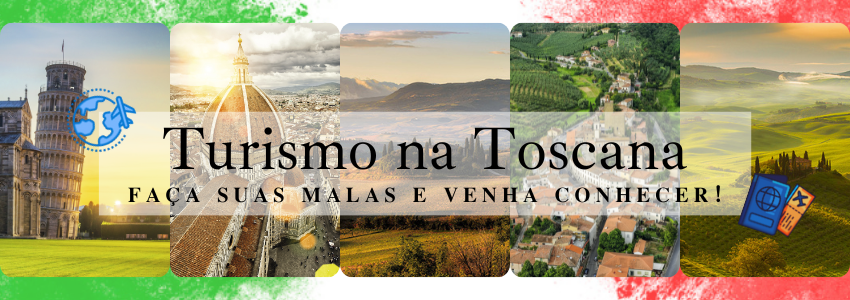
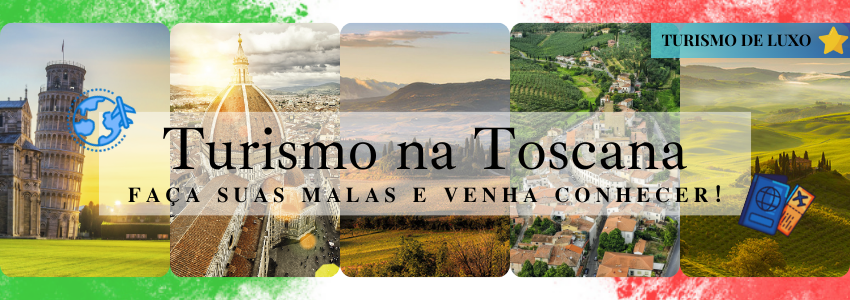
novas paginas adicionadas

Changed region(s): [[0.7647, 0.06, 1.0, 0.21]]

diff --git a/algarve.html b/algarve.html
@@ -17,7 +17,7 @@
 
     <link rel="shortcut icon" href="image/favicon-32x32.png" type="image/x-icon">
 
-    <title>Espanha</title>
+    <title>Algarve</title>
 
 </head>
 
@@ -77,40 +77,56 @@
     </div>
     <main class="container-fluid rounded-3 pt-1" style="background-color:#ffffff62;">
         <div class="container-fluid text-center py-2">
-            <div class="row align-items-middle py-3  rounded-3 border border-danger">
-                <div class="col-12 col-lg-4 pe-4">
-                    <div class="container-fluid pt-1 text-center">
-                        <div class="container">
-                            <img class="pb-2 img-fluid rounded-1" src="image/espanha-pqn.png" alt="bandeira da italia">
+            <div class="row  py-2  rounded-3 border border-warning-subtle">
+                <div class="row ">
+                    <div class="col-md-6 col-12">
+                        <div class="container-fluid pt-4">
+                            <h3 class="t1 border-bottom">Turismo no Algarve</h3>
+                            <p class="p1 ps py-1 ps-3">
+                                Somos uma empresa de concierge de luxo, que proporciona férias de luxo sob medida e
+                                sensações únicas na região do Algarve, sul de Portugal.
+                                Sendo o serviço de concierge VIP líder no Algarve, temos orgulho em trabalhar com
+                                algumas das villas de luxo mais exclusivas e os melhores iates disponíveis para aluguer
+                                na região.<br>
+                            </p>
+                            <ul class="list-unstyled ps ps-3">
+                                <li class="pb-1">Visite a maravilhosa costa e as famosas grutas num iate de luxo ou
+                                    descubra os canais
+                                    únicos do Parque Natural da Ria Formosa e as suas ilhas;</li>
+                                <li class="pb-1">Experimente os melhores restaurantes que o Algarve tem para oferecer;
+                                </li>
+                                <li class="pb-1">Deite-se e relaxe numa ilha deserta ou faça passeios exclusivos pelas
+                                    vinhas;</li>
+                                <li class="pb-1">Por que não contratar um DJ internacional para a sua festa privada?
+                                </li>
+                                <li class="pb-1">Você vai dar um jantar especial? Vou te dar um Chef com estrela
+                                    Michelin.</li>
+                            </ul>
                         </div>
-                        <h3 class="t1 border-bottom">Cidadania espanhola, tenho direito?</h3>
-                        <p class="p1">Prestamos consultoria para cidadania espanhola em 2 vias:
-                            por descendência (de pais ou de avós), ou casamento.</p>
                     </div>
-                </div>
-                <div class="col-12 col-lg-8">
-                    <div class="container  rounded-3 shadow-sm border border-warning-subtle "
-                        style="background-color:#f8eecfc2;">
-                        <div class="row py-2 m-2 align-item-middle">
-                            <div class="col-12 col-md-6">
-                                <div class="container  " style="width: 18rem;">
-                                    <div class="card-body">
-                                        <img src="image/family.png" alt="foto mãe com bebe">
-                                        <h4 class="pt-4 border-bottom "">Cidadania espanhola por descendência:</h4>
-                                        <p class=" p">Pode ser para filho de espanhóis, netos e bisnetos.
 
-                                            </p>
-                                    </div>
+                    <div class="col-md-6 col-12 pt-3">
+
+                        <div class="ratio ratio-16x9 mb-2 col-12">
+                            <iframe width="560" height="315"
+                                src="https://www.youtube.com/embed/llrVEHji0N4?si=XaHU7C_k33N7dRTn"
+                                title="YouTube video player" frameborder="0"
+                                allow="accelerometer; autoplay; clipboard-write; encrypted-media; gyroscope; picture-in-picture; web-share"
+                                allowfullscreen></iframe>
+
+                        </div>
+                        <div id="bg-card" class="card rounded-3 g-0 col-12">
+                            <div class="row text-center">
+                                <div class="col-md-6 ">
+                                    <img src="image/portugal-flags.jpg" class="img-fluid pt-3"
+                                        alt="turismo em portugal algarve card ilustrativo">
                                 </div>
-                            </div>
-                            <div class="col-12 col-md-6 ">
-                                <div class="container" style="width: 18rem;">
+                                <div class="col-md-6">
                                     <div class="card-body">
-                                        <img src="image/marriage.png" alt="Casal em matrimônio">
-                                        <h4 class="pt-4 border-bottom">Cidadania espanhola por matrimônio:</h4>
-                                        <p class="p">Casando com um cidadão espanhol você também possuirá direito a
-                                            tornar-se um cidadão espanhol.
-
+                                        <h5 class="card-title">Veja nossas Opções!</h5>
+                                        <p class="card-text">Entre em contato pelo whatsapp e faça sua reserva!</p>
+                                        <p class="card-text">
+                                            <a class="btn btn-success" href="">whatsapp</a>
                                         </p>
                                     </div>
                                 </div>
@@ -119,50 +135,22 @@
                     </div>
                 </div>
             </div>
-            <div class="container-fluid mt-2">
-                <div class="row">
-                    <div class="col-4 rounded-1 mx-auto d-block"><img src="image/barcelona-spain.jpg" class="img-fluid"
-                            alt=""></div>
-                    <div class="col-4 rounded-1 mx-auto d-block"><img
-                            src="image/alicante-com-iates-ancorados-do-castelo-espanha.jpg" class="img-fluid" alt="">
-                    </div>
-                    <div class="col-4 rounded-1 mx-auto d-block"><img src="image/catedral-de-madrid-spain.jpg"
-                            class="img-fluid" alt=""></div>
-                </div>
 
-            </div>
-            <div class="row mt-3 rounded-3 border border-danger align-middle">
-                <div class="col-12">
-                    <h1 class="display-5 bg-light.bg-gradient my-2 pb-2 border-bottom ">Como requerer minha cidadania?
-                    </h1>
-                </div>
-                <div class="col-lg-2 col-md-1"></div>
-                <div class="col-md-10 col-lg-8 col-12 ">
-                    <div class="card my-1 border border-warning-subtle">
-                        <div class="row">
-                            <div class="col-lg-6 col-12 rounded-1">
-                                <img src="image/visa-espanha.jpg " class="img-fluid p-2 rounded-4"
-                                    alt="foto de aplicação para passaporte da espanha">
-                            </div>
-                            <div class="col-lg-6 col-12">
-                                <div class="card-body ">
-                                    <h4 class="card-title pb-3 border-bottom"> Cidadania espanhola por
-                                        descendência (LMD):</h4>
-                                    <p class="card-text">A cidadania espanhola por descendência poderá ser
-                                        solicitada de um ou de ambos os pais, ou de algum dos avós ou
-                                        bisavós. O processo é realizado pelo consulado e dura em média de 1
-                                        a 8 meses dependendo do consulado de sua jurisdição.</p>
-                                </div>
-                            </div>
-                        </div>
-                    </div>
-                </div>
-            </div>
         </div>
-        <div class="container-fluid  mt-3 ">
+        <div class="container mt-2">
+            <div class="row px-0 py-1 mx-0 my-1">
+                <div class="col-4 rounded-1"><img src="image/toscana04.png" class="img-fluid" alt=""></div>
+                <div class="col-4 rounded-1"><img src="image/toscana02.jpeg" class="img-fluid" alt=""></div>
+                <div class="col-4 rounded-1"><img src="image/toscana01.jpeg" class="img-fluid" alt=""></div>
+            </div>
+
+        </div>
+
+
+        <div class="container-fluid  mt-1 ">
             <div class="row d-flex justify-content-center">
-                <div class="col-3"></div>
-                <div class="col-sm-6 col-12 rounded-3">
+                <div class="col-md-3"></div>
+                <div class="col-lg-4 col md-12 rounded-3">
                     <div class="card mb-3 bg-body-tertiary" style="max-width: 600px;">
                         <div class="row g-0">
                             <div class="col-6 ">
@@ -180,14 +168,13 @@
                         </div>
                     </div>
                 </div>
-                <div class="col-3">
+                <div class="col-md-3">
 
                 </div>
             </div>
         </div>
-
+        </div>
     </main>
-
 
 
 

diff --git a/index.html b/index.html
@@ -38,6 +38,10 @@
                             <li class="nav-item ">
                                 <a class="am" class="nav-link active " aria-current="page" href="index.html">Home</a>
                             </li>
+                            <li class="nav-item ">
+                                <a class="am" class="nav-link active " aria-current="page"
+                                    href="sevicos.html">Serviços</a>
+                            </li>
                             <li class="nav-item dropdown">
                                 <a class="nav-link dropdown-toggle am" href="#" role="button" data-bs-toggle="dropdown"
                                     aria-expanded="false">
@@ -50,10 +54,13 @@
                                 </ul>
                             </li>
                             <li class="nav-item ">
-                                <a class="am" class="nav-link " href="contato.html">Contato</a>
+                                <a class="am" class="nav-link " href="toscana.html">Toscana</a>
                             </li>
                             <li class="nav-item ">
-                                <a class="am" class="nav-link " href="toscana.html">Toscana</a>
+                                <a class="am" class="nav-link " href="toscana.html">Algarve</a>
+                            </li>
+                            <li class="nav-item ">
+                                <a class="am" class="nav-link " href="contato.html">Contato</a>
                             </li>
                         </ul>
                     </div>
@@ -107,12 +114,21 @@
             </div>
         </div>
         <div class="container-fluid" style="background-color: #ffffff91;">
-            <div class="row text-center">
-                <div class=" col-8 offset-2 ">
+            <div class="row text-center g-0">
+                <div class="col-1"></div>
+                <div class=" col-5">
                     <div class="Shrink">
-                        <div class="col-12 ">
+                        <div class="col-12">
                             <a href="toscana.html"><img class="img-fluid rounded-3" src="image/turismo-toscana.png"
                                     alt="modelo turismo na toscana"></a>
+                        </div>
+                    </div>
+                </div>
+                <div class=" col-5">
+                    <div class="Shrink">
+                        <div class="col-12">
+                            <a href="algarve.html"><img class="img-fluid rounded-3" src="image/turismo-algarve.png"
+                                    alt="modelo turismo em algarve"></a>
                         </div>
                     </div>
                 </div>

diff --git a/toscana.html b/toscana.html
@@ -45,6 +45,10 @@
                             <li class="nav-item ">
                                 <a class="am" class="nav-link active " aria-current="page" href="index.html">Home</a>
                             </li>
+                            <li class="nav-item ">
+                                <a class="am" class="nav-link active " aria-current="page"
+                                    href="sevicos.html">Serviços</a>
+                            </li>
                             <li class="nav-item dropdown">
                                 <a class="nav-link dropdown-toggle am" href="#" role="button" data-bs-toggle="dropdown"
                                     aria-expanded="false">
@@ -57,17 +61,20 @@
                                 </ul>
                             </li>
                             <li class="nav-item ">
-                                <a class="am" class="nav-link " href="contato.html">Contato</a>
+                                <a class="am" class="nav-link " href="toscana.html">Toscana</a>
                             </li>
                             <li class="nav-item ">
-                                <a class="am" class="nav-link " href="toscana.html">Toscana</a>
+                                <a class="am" class="nav-link " href="toscana.html">Algarve</a>
+                            </li>
+                            <li class="nav-item ">
+                                <a class="am" class="nav-link " href="contato.html">Contato</a>
                             </li>
                         </ul>
                     </div>
                 </div>
             </nav>
         </header>
-    </div>
+    </div>1
     <main class="container-fluid rounded-3 pt-1" style="background-color:#ffffff62;">
         <div class="container-fluid text-center py-2">
             <div class="row align-middle py-2  rounded-3 border border-warning-subtle">

diff --git a/contato.html b/contato.html
@@ -45,6 +45,10 @@
                             <li class="nav-item ">
                                 <a class="am" class="nav-link active " aria-current="page" href="index.html">Home</a>
                             </li>
+                            <li class="nav-item ">
+                                <a class="am" class="nav-link active " aria-current="page"
+                                    href="sevicos.html">Serviços</a>
+                            </li>
                             <li class="nav-item dropdown">
                                 <a class="nav-link dropdown-toggle am" href="#" role="button" data-bs-toggle="dropdown"
                                     aria-expanded="false">
@@ -57,10 +61,13 @@
                                 </ul>
                             </li>
                             <li class="nav-item ">
-                                <a class="am" class="nav-link " href="contato.html">Contato</a>
+                                <a class="am" class="nav-link " href="toscana.html">Toscana</a>
                             </li>
                             <li class="nav-item ">
-                                <a class="am" class="nav-link " href="toscana.html">Toscana</a>
+                                <a class="am" class="nav-link " href="toscana.html">Algarve</a>
+                            </li>
+                            <li class="nav-item ">
+                                <a class="am" class="nav-link " href="contato.html">Contato</a>
                             </li>
                         </ul>
                     </div>

diff --git a/italia.html b/italia.html
@@ -45,6 +45,10 @@
                             <li class="nav-item ">
                                 <a class="am" class="nav-link active " aria-current="page" href="index.html">Home</a>
                             </li>
+                            <li class="nav-item ">
+                                <a class="am" class="nav-link active " aria-current="page"
+                                    href="sevicos.html">Serviços</a>
+                            </li>
                             <li class="nav-item dropdown">
                                 <a class="nav-link dropdown-toggle am" href="#" role="button" data-bs-toggle="dropdown"
                                     aria-expanded="false">
@@ -57,10 +61,13 @@
                                 </ul>
                             </li>
                             <li class="nav-item ">
-                                <a class="am" class="nav-link " href="contato.html">Contato</a>
+                                <a class="am" class="nav-link " href="toscana.html">Toscana</a>
                             </li>
                             <li class="nav-item ">
-                                <a class="am" class="nav-link " href="toscana.html">Toscana</a>
+                                <a class="am" class="nav-link " href="toscana.html">Algarve</a>
+                            </li>
+                            <li class="nav-item ">
+                                <a class="am" class="nav-link " href="contato.html">Contato</a>
                             </li>
                         </ul>
                     </div>

diff --git a/portugal.html b/portugal.html
@@ -45,6 +45,10 @@
                             <li class="nav-item ">
                                 <a class="am" class="nav-link active " aria-current="page" href="index.html">Home</a>
                             </li>
+                            <li class="nav-item ">
+                                <a class="am" class="nav-link active " aria-current="page"
+                                    href="sevicos.html">Serviços</a>
+                            </li>
                             <li class="nav-item dropdown">
                                 <a class="nav-link dropdown-toggle am" href="#" role="button" data-bs-toggle="dropdown"
                                     aria-expanded="false">
@@ -57,10 +61,13 @@
                                 </ul>
                             </li>
                             <li class="nav-item ">
-                                <a class="am" class="nav-link " href="contato.html">Contato</a>
+                                <a class="am" class="nav-link " href="toscana.html">Toscana</a>
                             </li>
                             <li class="nav-item ">
-                                <a class="am" class="nav-link " href="toscana.html">Toscana</a>
+                                <a class="am" class="nav-link " href="toscana.html">Algarve</a>
+                            </li>
+                            <li class="nav-item ">
+                                <a class="am" class="nav-link " href="contato.html">Contato</a>
                             </li>
                         </ul>
                     </div>

diff --git a/sevicos.html b/sevicos.html
@@ -45,6 +45,10 @@
                             <li class="nav-item ">
                                 <a class="am" class="nav-link active " aria-current="page" href="index.html">Home</a>
                             </li>
+                            <li class="nav-item ">
+                                <a class="am" class="nav-link active " aria-current="page"
+                                    href="sevicos.html">Serviços</a>
+                            </li>
                             <li class="nav-item dropdown">
                                 <a class="nav-link dropdown-toggle am" href="#" role="button" data-bs-toggle="dropdown"
                                     aria-expanded="false">
@@ -57,10 +61,13 @@
                                 </ul>
                             </li>
                             <li class="nav-item ">
-                                <a class="am" class="nav-link " href="contato.html">Contato</a>
+                                <a class="am" class="nav-link " href="toscana.html">Toscana</a>
                             </li>
                             <li class="nav-item ">
-                                <a class="am" class="nav-link " href="toscana.html">Toscana</a>
+                                <a class="am" class="nav-link " href="toscana.html">Algarve</a>
+                            </li>
+                            <li class="nav-item ">
+                                <a class="am" class="nav-link " href="contato.html">Contato</a>
                             </li>
                         </ul>
                     </div>

diff --git a/assets/estilo.css b/assets/estilo.css
@@ -70,7 +70,9 @@
     text-indent: 10px !important;
     font-size: 1.2em !important;
 }
-
+.ps{
+    text-align: start!important;
+}
 li.l1 {
     display: list-item;
     padding-bottom: 10px;
